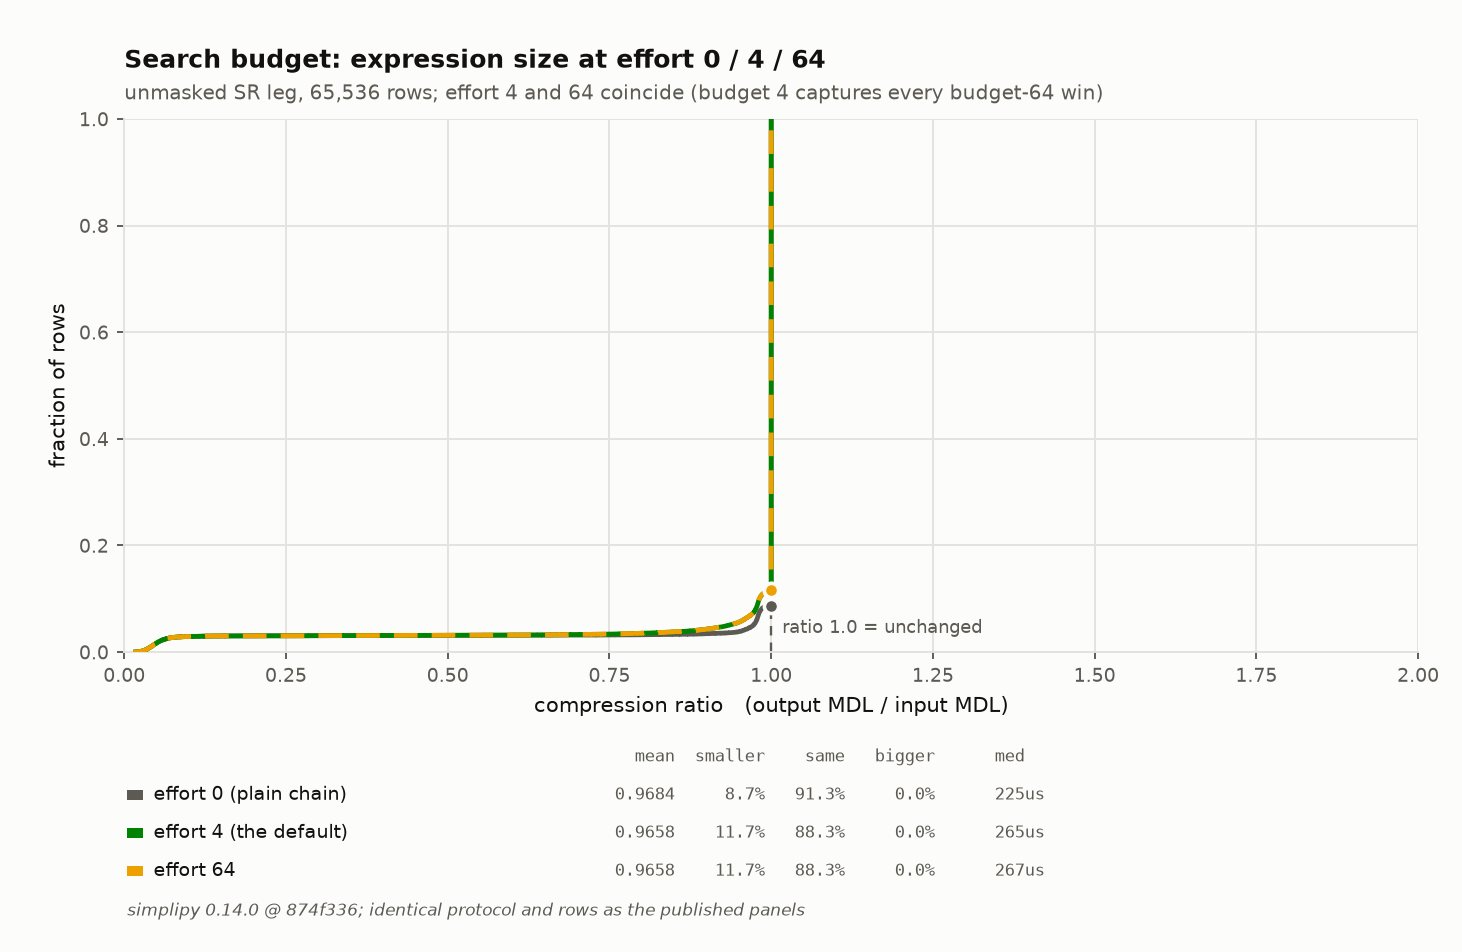
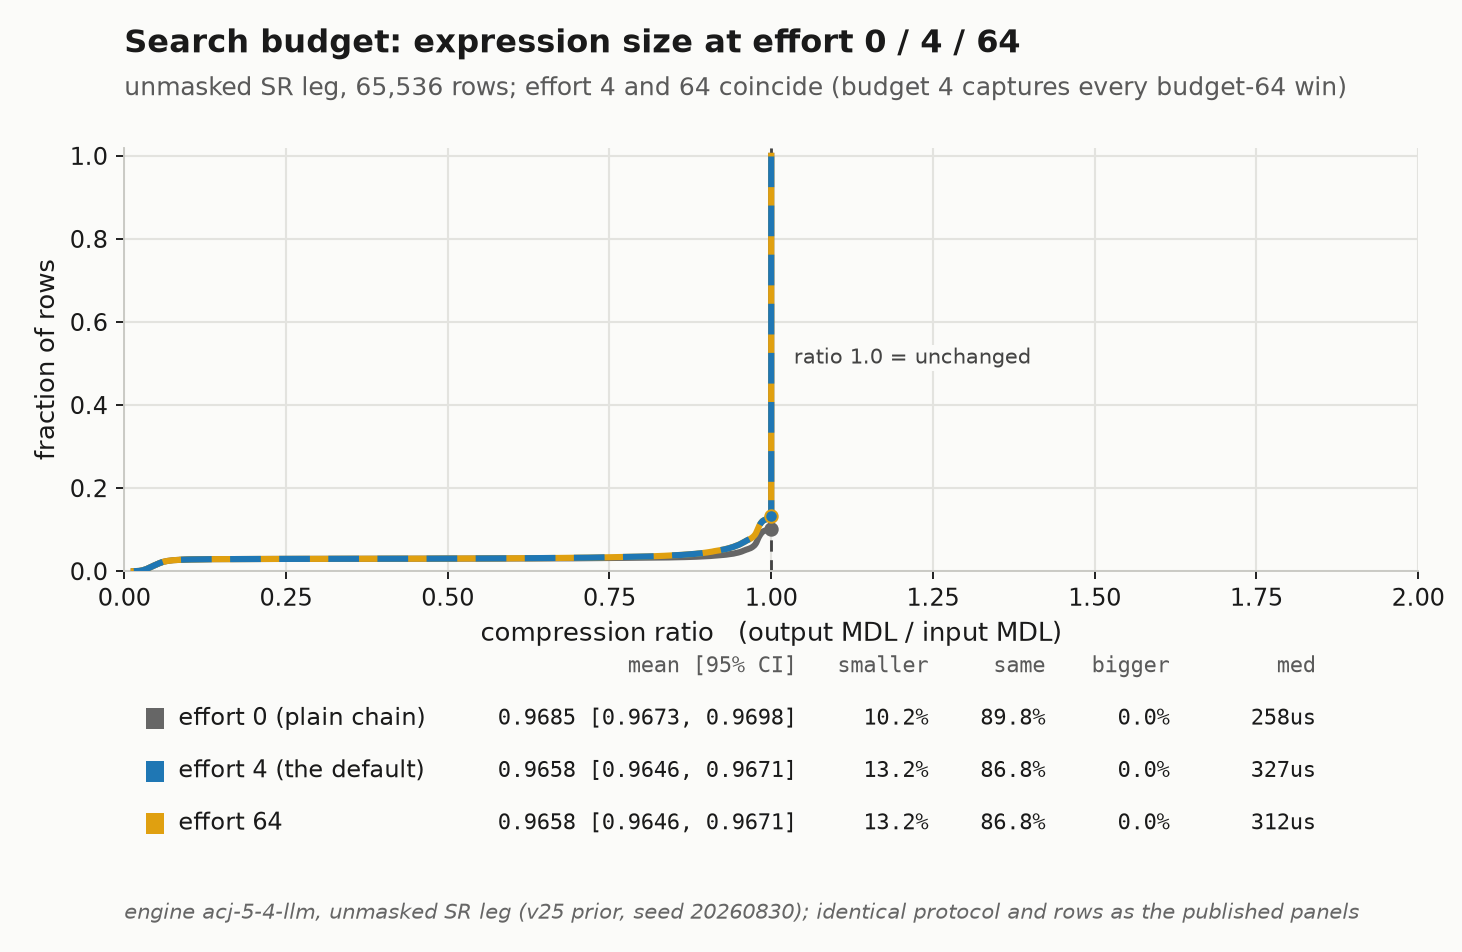
The published benchmark is the acj-5-4-llm artifact, four arms, three corpora
Figures and numbers regenerated on the shipped acj-5-4-llm triple: f64 / real /
permissive at effort 4 against sympy 1.14.0, on the v25 SR prior (n=65,536,
seed 20260830), its mask-policy-'all' transform, and the SOOSE external set
(n=600). Protocol stated in prose (pinned core of a Ryzen 9 9950X, BLAS caps 1,
1 s sympy cap, censoring counted per corpus); scoring by the shipped
complexity() instrument with bootstrap 95% CIs. The made-bigger claim is scoped
to what the instrument measures: f64 inflated nothing anywhere; real and
permissive minimize their own mode's ordering and price above the input on
23/2 (unmasked) and 2/0 (masked) of 65,536 rows, never via an uphill step.
Corpus figures are one row of three panels; f64 blue, real purple, permissive
green.

Claude-Session: https://claude.ai/code/session_01MktGcCWQs8zePRutL56sT4

diff --git a/docs/guides/simplify.md b/docs/guides/simplify.md
@@ -105,10 +105,11 @@ rows with zero regressions and captures every win a 16x larger budget finds, at 
 median per-row cost. Pass `effort=0` on throughput-critical paths.
 
 The sweep, re-measured on the release build over the same 65,536 rows, is the whole
-argument for the default in one panel: effort 0 to 4 moves the mean ratio from 0.968
-to 0.966 and lifts strictly-simplified rows from 8.7% to 11.7% for 40 µs of median
-cost, and effort 64 retraces the effort-4 curve exactly — the exploration saturates
-at 4 on this corpus, so a larger budget buys nothing.
+argument for the default in one panel: effort 0 to 4 moves the mean ratio from 0.9685
+to 0.9658 and lifts strictly-simplified rows from 10.2% to 13.2% for ~70 µs of median
+cost, and effort 64 retraces the effort-4 curve exactly — budget 4 captures every
+budget-64 win, the exploration saturates at 4 on this corpus, and a larger budget
+buys nothing.
 
 ![Search-budget sweep, effort 0 / 4 / 64](../assets/benchmarks/ecdf_effort_sweep.png)
 
@@ -287,42 +288,61 @@ nothing, and the fixpoint loop memoizes whole passes and rule-normal subtrees. T
 engine line; the published ruleset artifacts are the distinguishing factor between engines,
 and rule application always considers every pattern in the loaded artifact.
 
-The published fair benchmark is pre-registered: serial
-single-core for every arm (one pinned core of an otherwise idle AMD Ryzen 5 2600,
-BLAS thread caps at 1), paired per-row scoring against SymPy 1.14.0
-(1 s cap, censoring stated on the panel), three corpora — an SR training
-prior (n = 65,536), its raw-masked transform (n = 65,536), and an
-external neutral problem set (n = 528). Scored in the deployment space
-under the MDL measure, with bootstrap 95% CIs; ratio = output/input, lower
-is better; "made bigger" = the fraction of rows an arm inflated. Measured
-on the 0.14.0 release: `f64` is the shipped default (`effort=4`), `permissive`
-is `Mode.permissive` at its default.
+The published benchmark is pre-registered: every arm runs serially on one
+pinned core of an otherwise idle AMD Ryzen 9 9950X (BLAS thread caps at 1),
+paired per row against SymPy 1.14.0's `simplify()` under a 1 s cap, on
+three declared corpora — the v25 SR training prior (seed 20260830,
+n = 65,536), the same prior under the engine mask policy 'all'
+(n = 65,536), and an external neutral problem set (SOOSE fc/nc/wc,
+n = 600; every row compiles in the engine language). The engine is the
+pinned acj-5-4-llm artifact: `f64` is the shipped default, `real` is
+`Mode.real`, `permissive` is `Mode.permissive`, every arm at the default
+`effort=4`. Scoring runs in the deployment space:
+ratio = `complexity(output)` / `complexity(input)`, priced by the engine's
+shipped `complexity()` instrument in the default (f64) canonicalization;
+lower is better, means carry bootstrap 95% CIs, and "made bigger" is the
+fraction of rows an arm inflated. SymPy is censored — a 1 s timeout, or an
+output with no spelling in the engine's language — on 8,232 / 5,895 / 8
+rows of the three corpora (12.6% / 9.0% / 1.3%); censored rows score
+ratio 1.0 in every mean and table stat, the charitable choice, and end the
+ratio ECDFs below 1. 5,689 / 5,485 / 8 rows (8.7% / 8.4% / 1.3%) hit the
+cap and end the wall-clock ECDFs below 1.
 
 | corpus | arm | mean ratio | wins | made bigger |
 |---|---|---|---|---|
-| SR prior, unmasked | simplipy f64 (default) | **0.966** | 11.7% | **0.0%** |
-| | simplipy permissive | **0.940** | **29.5%** | **0.0%** |
-| | sympy simplify | 1.078 | 15.1% | 40.1% |
-| SR prior, masked raw | simplipy f64 (default) | **0.993** | 7.0% | **0.0%** |
-| | simplipy permissive | **0.961** | **28.4%** | **0.0%** |
-| | sympy simplify | 1.059 | 14.9% | 38.0% |
-| external set | simplipy f64 (default) | 0.995 | 4.0% | **0.0%** |
-| | simplipy permissive | 0.995 | 4.5% | **0.0%** |
-| | sympy simplify | 1.045 | 15.0% | 22.7% |
+| SR prior, unmasked | simplipy f64 (default) | **0.966** | 13.2% | **0.0%** |
+| | simplipy real | **0.965** | 15.0% | 0.04% |
+| | simplipy permissive | **0.936** | **36.9%** | 0.003% |
+| | sympy simplify | 1.085 | 22.3% | 45.1% |
+| SR prior, masked | simplipy f64 (default) | **0.998** | 1.8% | **0.0%** |
+| | simplipy real | **0.997** | 3.4% | 0.003% |
+| | simplipy permissive | **0.958** | **33.5%** | **0.0%** |
+| | sympy simplify | 1.068 | 18.3% | 43.2% |
+| external set | simplipy f64 (default) | 0.995 | 3.8% | **0.0%** |
+| | simplipy real | 0.995 | 4.0% | **0.0%** |
+| | simplipy permissive | 0.992 | 9.8% | **0.0%** |
+| | sympy simplify | 1.006 | 26.3% | 15.0% |
 
-No simplipy arm inflated a single row of 131,600, in either mode: refusal
-semantics mean an unprovable rewrite returns the input unchanged, and the
-serve construction never returns a costlier form than the input under its
-own mode's measure. SymPy's `simplify` inflates roughly four rows in ten
-on SR-shaped corpora and hits its 1 s timeout on ~20% of them (censored
-rows score ratio 1, the charitable choice). Paired wall-clock on the same
-rows: median speedup **~650–780×** across corpora, medians at 211–265 µs
-per row against SymPy's ~171 ms. On the external set both systems are
-near the fixpoint; SymPy's wins there are dominated by number-respelling
-(floats rewritten as exact rationals), not structural simplification.
+The shipped default arm (f64, effort 4) made no expression bigger: 0 of
+196,608 SR rows and 0 of 600 external rows. The real and permissive arms
+minimize their own mode's reduction ordering, which is not the default
+pricing: under the table's measure they returned a form pricing above
+the input on a handful of rows (real 23/65,536 unmasked and 2/65,536
+masked; permissive 2/65,536 unmasked and 0 masked). Every such output is
+that mode's idempotent fixpoint; the increase enters through
+mode-specific respells — exact rational folds and pole materialization
+to `float("inf")` — never through an uphill rule application or search
+acceptance, which are descent-gated by construction. SymPy's `simplify`
+inflates 43–45% of rows on the SR-shaped corpora. Paired wall-clock on
+the same rows: median
+speedup **≈260× / 300× / 420×** across corpora (f64 vs sympy, over rows
+where sympy finished), f64 medians at 70–327 µs per row against SymPy's
+27–83 ms. On the external set both systems are near the fixpoint;
+SymPy's wins there are dominated by number-respelling (floats rewritten
+as exact rationals), not structural simplification.
 
-![ECDF, masked raw corpus](../assets/benchmarks/ecdf_masked_raw.png)
+![ECDF, masked corpus](../assets/benchmarks/ecdf_masked_raw.png)
 
 Full panels: [unmasked](../assets/benchmarks/ecdf_unmasked.png) ·
-[masked raw](../assets/benchmarks/ecdf_masked_raw.png) ·
+[masked](../assets/benchmarks/ecdf_masked_raw.png) ·
 [external](../assets/benchmarks/ecdf_external.png)

diff --git a/README.md b/README.md
@@ -100,10 +100,10 @@ On a 65,536-expression symbolic-regression benchmark, paired per-row against Sym
 
 | | SimpliPy | SymPy |
 |---|---:|---:|
-| Mean size ratio (lower is better) | **0.97** | 1.08 |
-| Expressions strictly simplified | 11.7% | 15.1% |
-| Expressions made bigger | **0.00%** | 40.1% |
-| Median per-row speedup | **≈650×** | 1× |
+| Mean size ratio (lower is better) | **0.97** | 1.09 |
+| Expressions strictly simplified | 13.2% | 22.3% |
+| Expressions made bigger | **0.00%** | 45.1% |
+| Median per-row speedup | **≈260×** | 1× |
 
 ![Compression on the SR benchmark](docs/assets/benchmarks/ecdf_readme.png)
 
